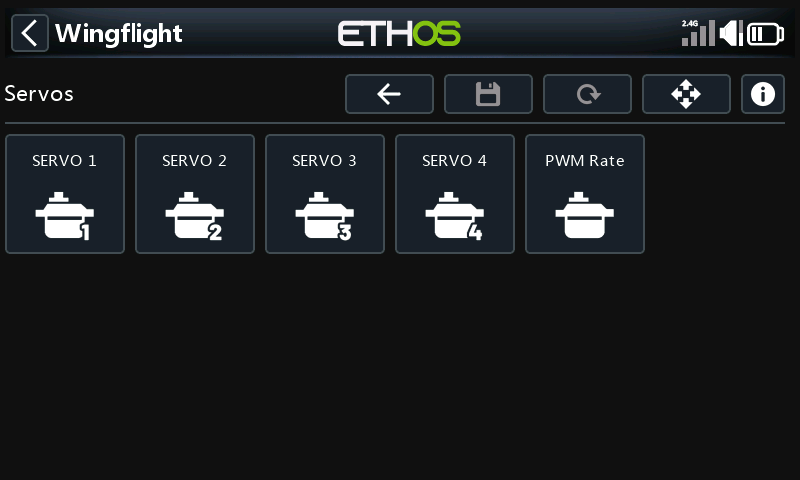
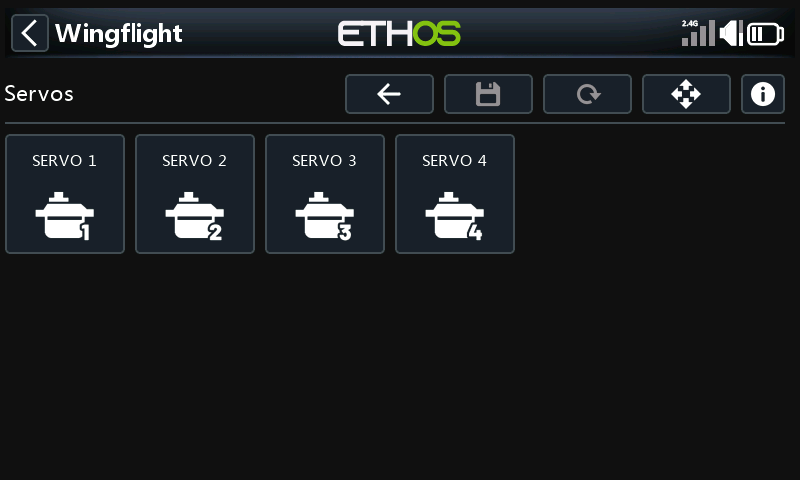
Drop the PWM Rate tile from the Ethos Servos page
The suite's Servos page no longer offers the PWM update rate; point to the
Configurator's Servos tab for it.

Changed region(s): [[0.6562, 0.2812, 0.8125, 0.5312]]

diff --git a/docs/ethos-suite/setup.md b/docs/ethos-suite/setup.md
@@ -122,11 +122,10 @@ See [Curves](../configurator/tabs/curves.md).
 ### Servos
 
 Lists the servos in use, whether they are on a PWM output or a bus; select
-one to set its centre, limits and direction. **PWM Rate**, at the end of
-the list, sets the update rate of the PWM outputs: Standard (50 Hz) or High
-speed (333 Hz, digital servos only). Saving it restarts the flight
-controller. **Tool** turns servo override on, so a servo moves to its
-centre as you change it.
+one to set its centre, limits and direction. **Tool** turns servo override
+on, so a servo moves to its centre as you change it. The PWM update rate
+isn't set here: use the Configurator's
+[Servos](../configurator/tabs/servos.md#pwm-update-rate) tab.
 
 ![Servos](../assets/images/ethos-suite/servos.png)
 
